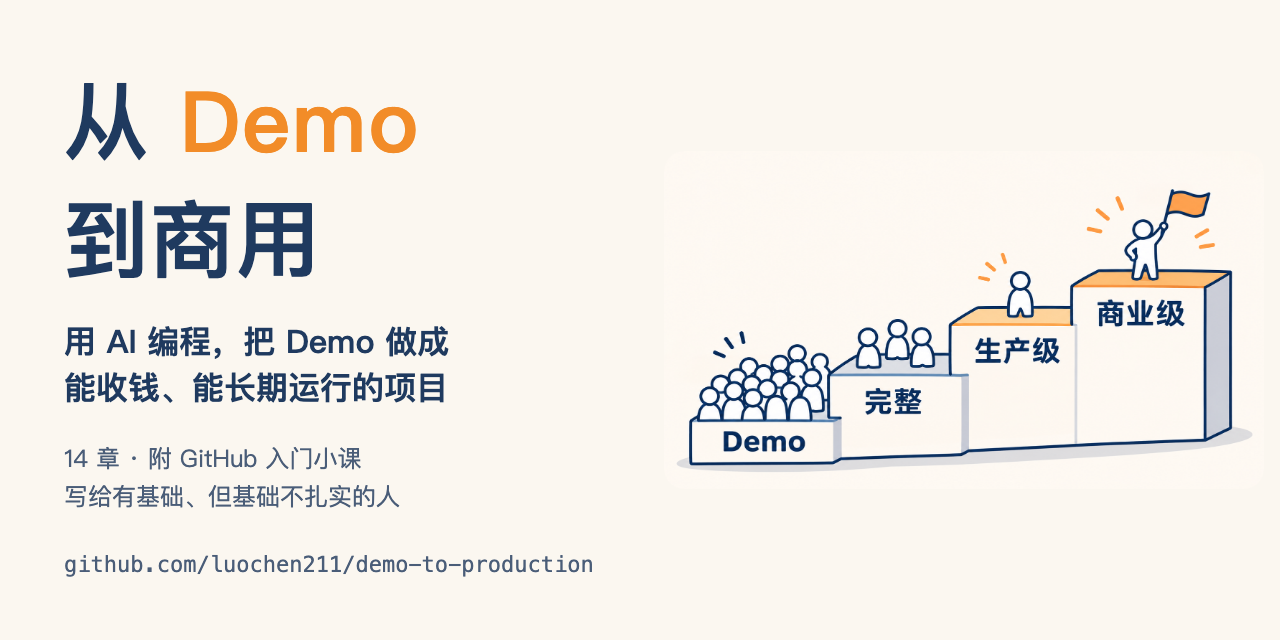
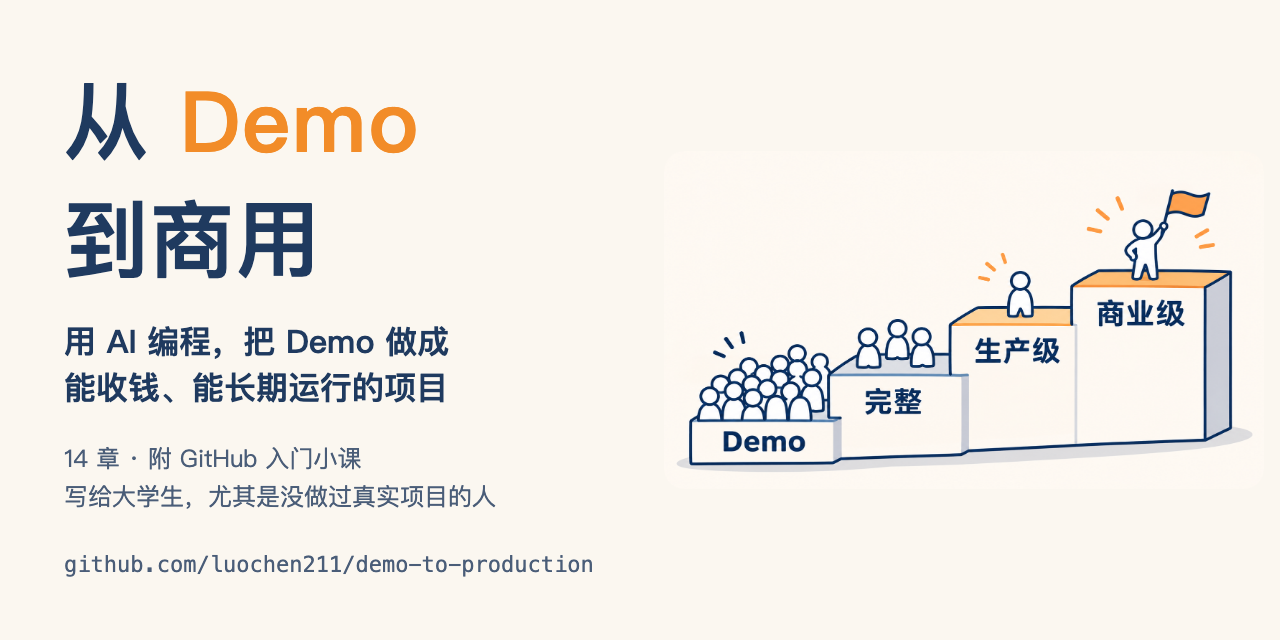
docs: position the book for students without real project experience

Changed region(s): [[0.0938, 0.75, 0.375, 0.8125]]

diff --git a/README.md b/README.md
@@ -2,7 +2,9 @@
 
 用 AI 编程，把 Demo 做成能收钱、能长期运行的项目。
 
-写给有一定编程基础、但基础不扎实的人：学过一门语言，跟着教程做过小项目，会用一种 AI 编程助手，还没独立做出过能收钱的系统。读完以后，你知道每一步该交给 AI 做什么，做完以后自己怎么验收，能把一个能演示的 Demo 一步步做到上线、稳定运行、收钱和交付。
+写给大学生，尤其是还没接触过真实项目的人。课程作业和教程一般只做到 Demo：自己电脑上能跑、能演示。真实项目还要上线、稳定运行、收钱、对账、守住数据和权限、报价和交付，这些课上很少讲。
+
+你需要学过一门语言，跟着教程做过小项目，会用一种 AI 编程助手。不需要先学数据结构和数据库设计。读完以后，你知道每一步该交给 AI 做什么，做完以后自己怎么验收，能把一个能演示的 Demo 一步步做到上线、稳定运行、收钱和交付。
 
 **[在线阅读](https://luochen211.github.io/demo-to-production/)** · **[从序开始](https://luochen211.github.io/demo-to-production/book/preface)**
 

diff --git a/docs/index.md b/docs/index.md
@@ -4,7 +4,7 @@ layout: home
 hero:
   name: 从 Demo 到商用
   text: 用 AI 编程，把 Demo 做成能收钱、能长期运行的项目
-  tagline: 写给有一定编程基础、但基础不扎实的人。不用先学数据结构和数据库设计，要学的是：交给 AI 做什么，自己判断和验收什么。
+  tagline: 写给大学生，尤其是还没接触过真实项目的人。不用先学数据结构和数据库设计，要学的是：交给 AI 做什么，自己判断和验收什么。
   image:
     src: /logo.svg
     alt: 从 Demo 到商用
